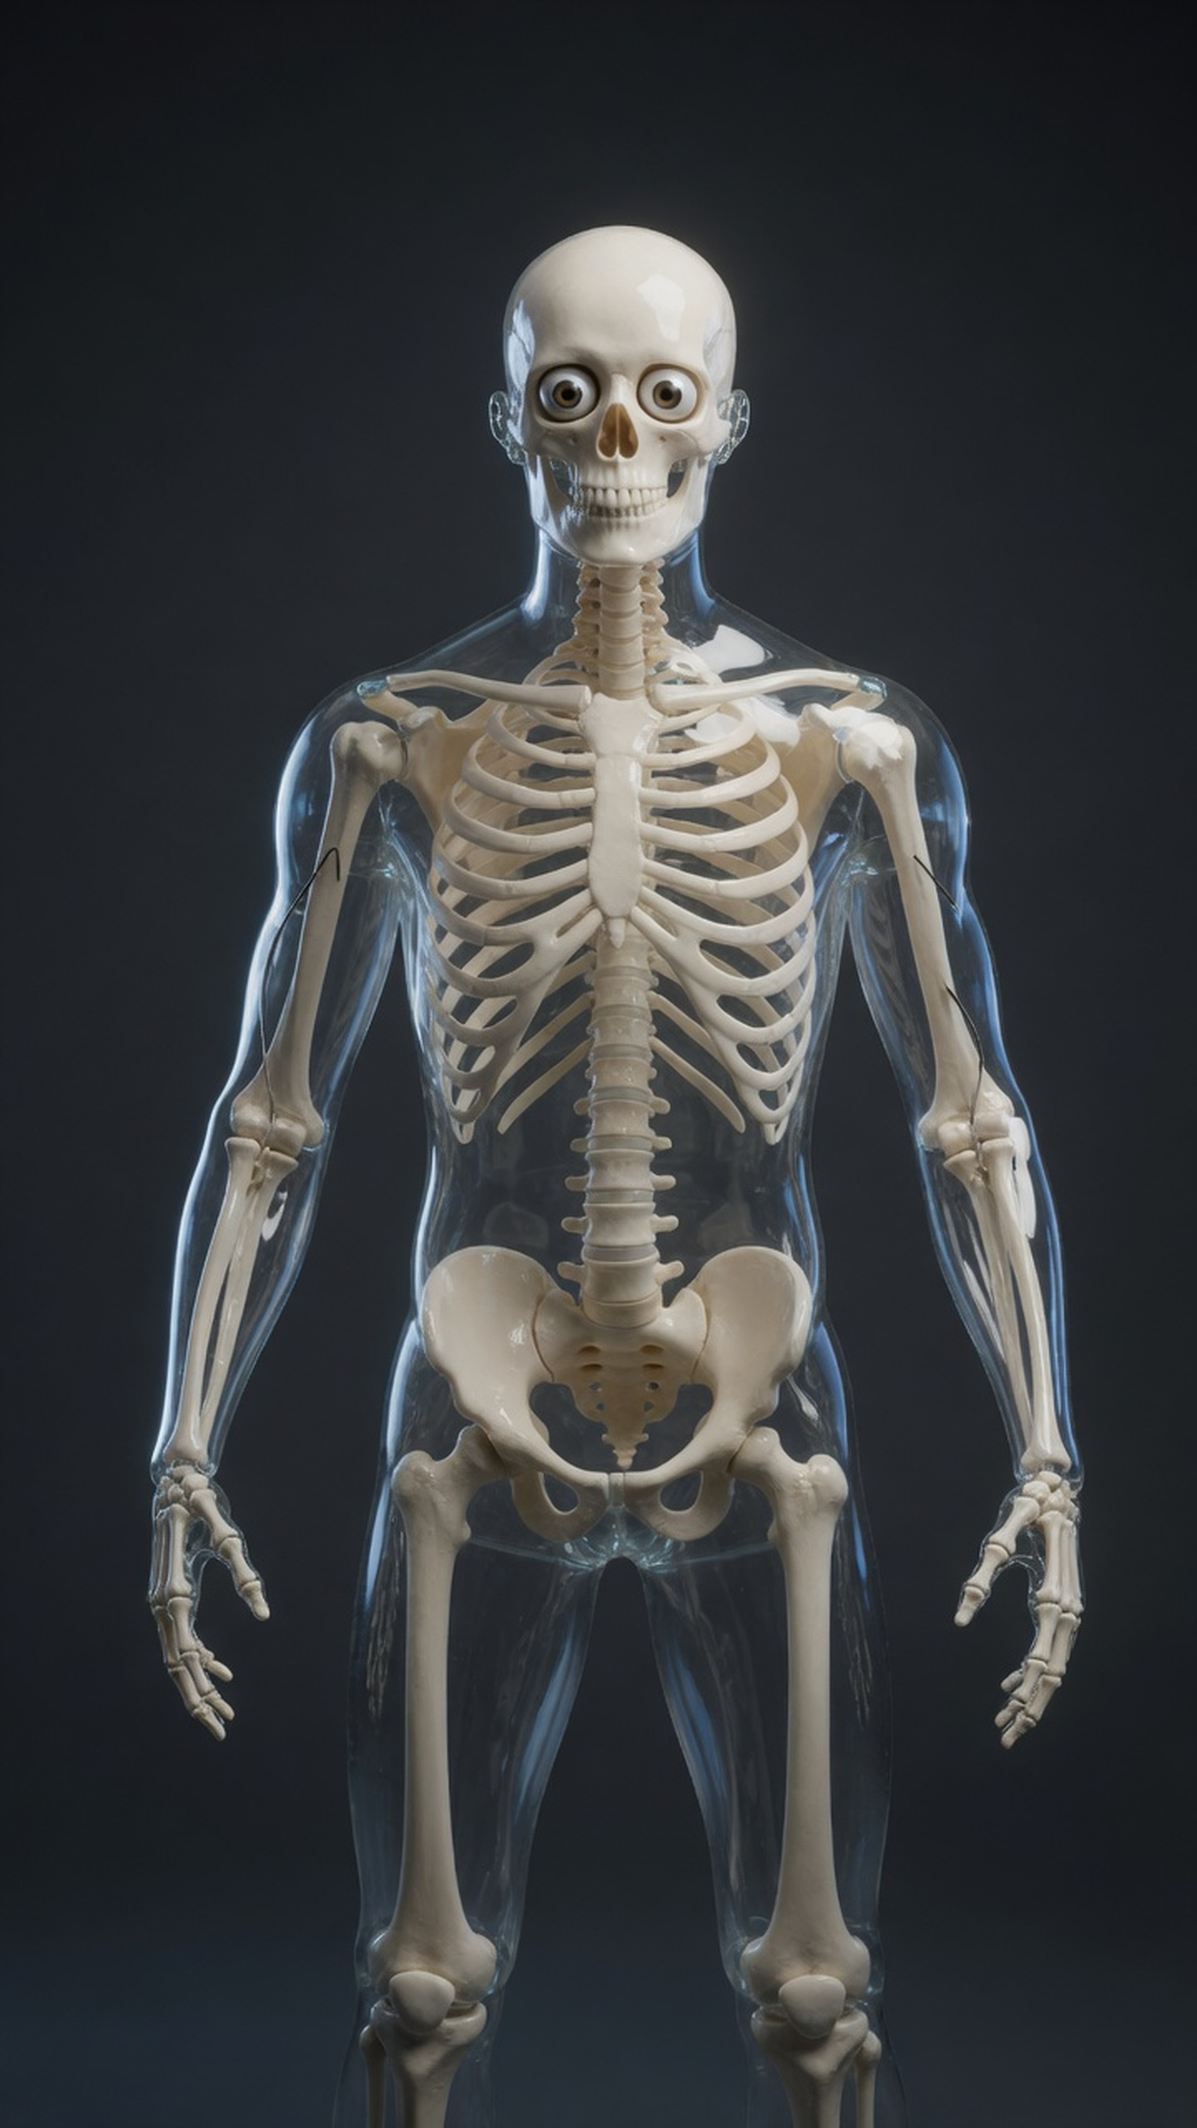
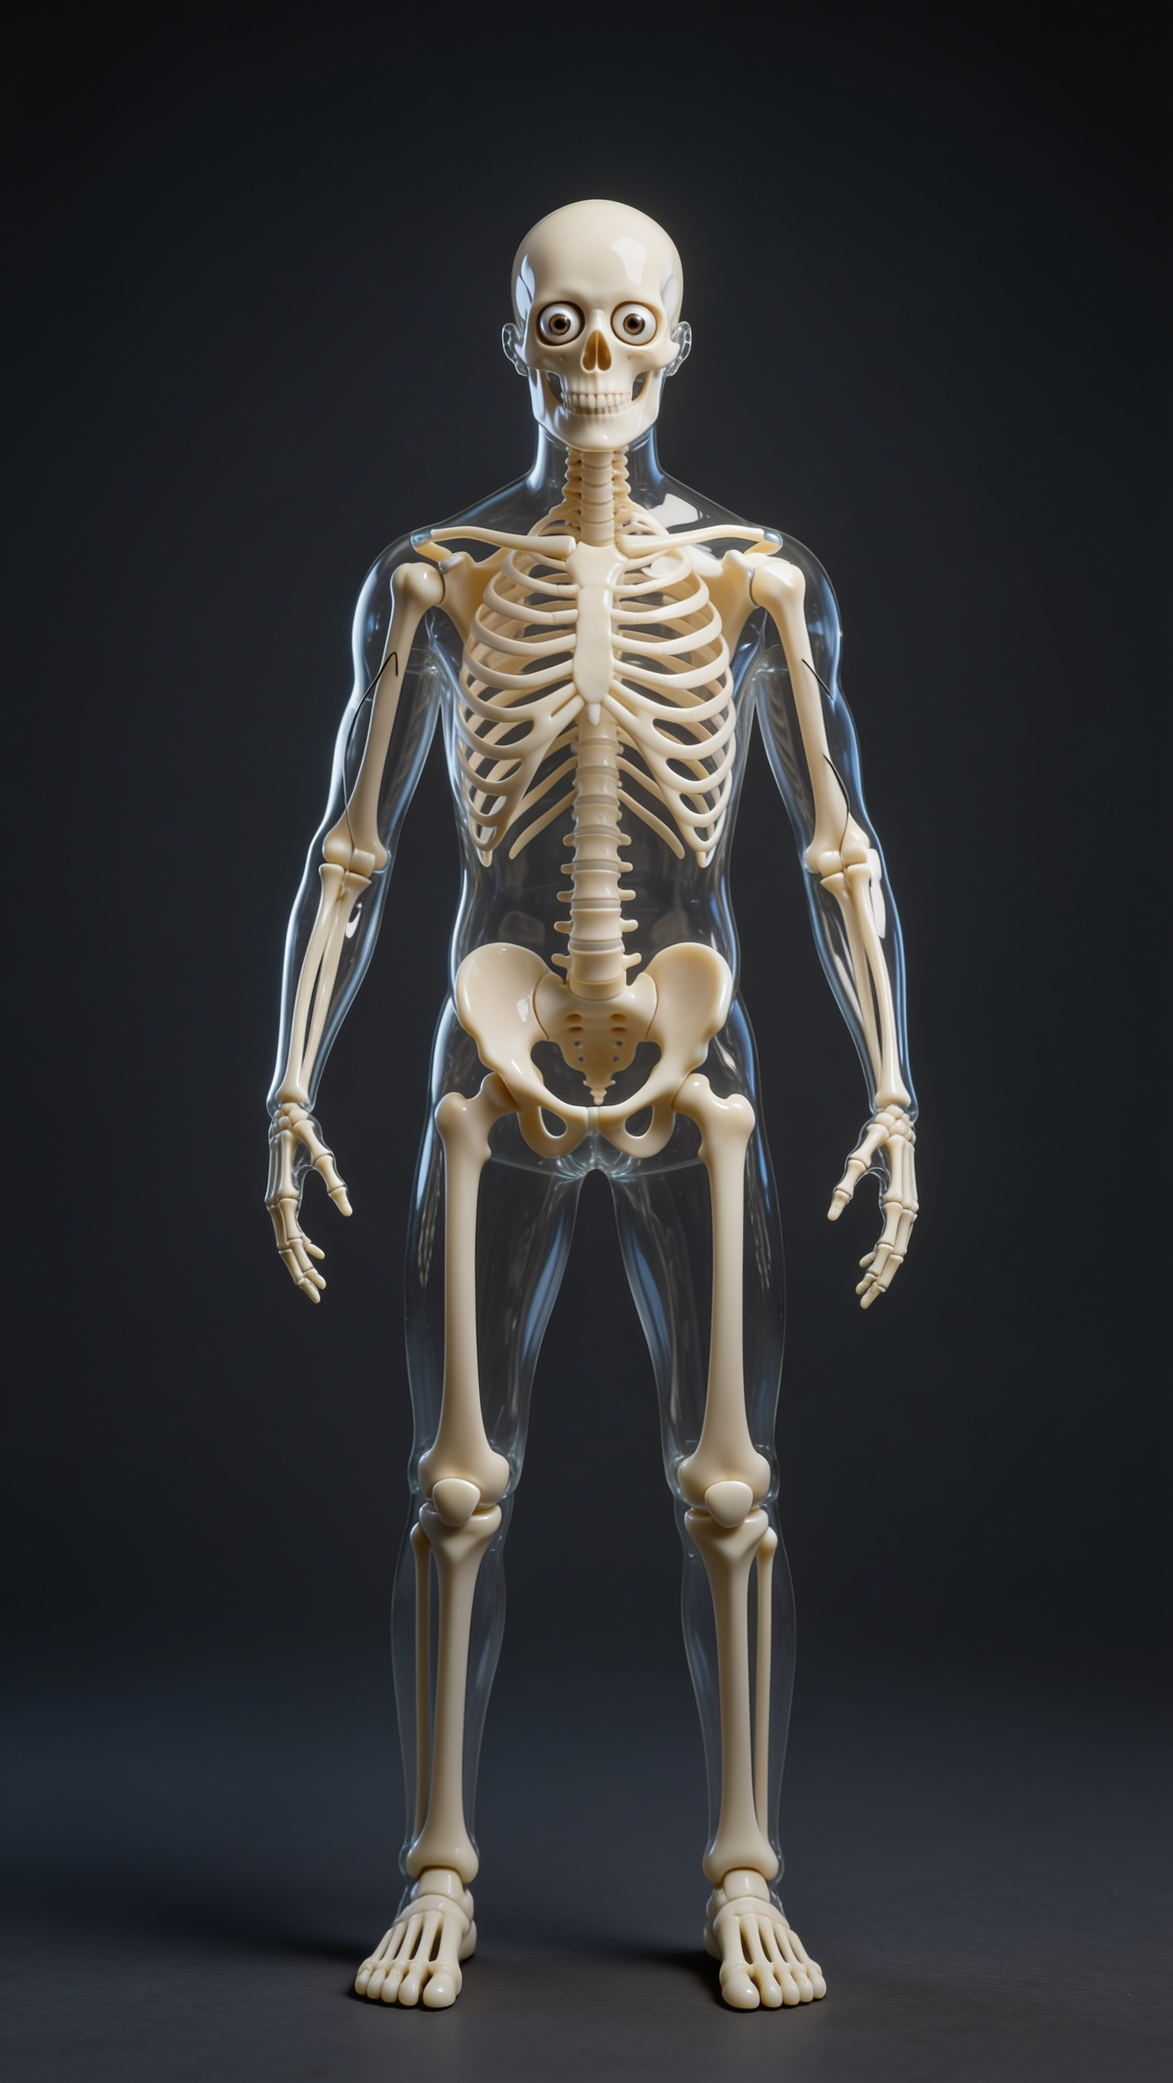
fix(skeleton): the smooth skull and big eyes are the character, not defects
The channel's gold-standard reference art shows MrSkeleWelly with a smooth
polished featureless cranium and large round eyes. Both had been listed as
structural defects on my assumption that they were rendering failures.

That was wrong in both directions. The gate would have blocked renders for
looking correct, and the negative prompts were actively suppressing the
mascot's own face. A replacement master generated to "fix" them would have
shipped a different character across an existing slate.

Removed skull_detail_failure and eye_consistency_failure from the
structural set, the QA vocabulary, the summary backfill, and the negative
prompt. The QA rubric now states plainly that the polished cranium and
large eyes are by design and must never be reported as defects. Genuine
deviation is still caught as identity drift against the master reference,
which is the right mechanism - the reference defines the character, not a
word list.

What the gold standard does establish is a quality bar the renders were
missing: five digits per hand including a thumb with distinct jointed
phalanges, a defined dental arcade, clean unscratched shell refraction,
and no detached bones. Those stay structural, and the roster prompt now
reinforces them positively instead of arguing with the character.

The master reference is lifted, not replaced. The gold standard is an
action shot in a basketball arena, and Seedream edit preserves the
[…]

diff --git a/tests/test_defect_classes.py b/tests/test_defect_classes.py
@@ -33,8 +33,7 @@ def _report(*issues: str, passed: bool = False) -> dict:
 
 @pytest.mark.parametrize(
     "issue",
-    ["skull_detail_failure", "eye_consistency_failure", "hand_topology_failure",
-     "glass_shell_failure", "material_artifact"],
+    ["hand_topology_failure", "glass_shell_failure", "material_artifact"],
 )
 def test_structural_defects_do_not_earn_a_retry(issue: str) -> None:
     verdict = classify_report(_report(issue))
@@ -121,7 +120,7 @@ def test_a_hold_carries_the_frame_and_states_zero_spend() -> None:
 
 def test_a_hold_is_not_reported_as_a_repair() -> None:
     """"We held" must never be readable as "we retried and it worked"."""
-    hold = structural_hold_report(scene_index=1, qa_report=_report("skull_detail_failure"))
+    hold = structural_hold_report(scene_index=1, qa_report=_report("hand_topology_failure"))
     assert hold["status"] != "repaired_still"
     assert hold["defect_class"] == STRUCTURAL
 
@@ -153,7 +152,7 @@ def test_a_structural_verdict_provably_costs_zero_in_retries(
         production_budget, "enforce_incremental_spend", _tripwire_spend
     )
 
-    structural = _report("skull_detail_failure", "eye_consistency_failure")
+    structural = _report("hand_topology_failure", "glass_shell_failure")
     assert defect_classes.repair_is_allowed(structural) is False
 
     hold = defect_classes.structural_hold_report(scene_index=3, qa_report=structural)
@@ -164,19 +163,21 @@ def test_a_structural_verdict_provably_costs_zero_in_retries(
 def test_a_reseed_verdict_is_the_only_thing_that_unlocks_spend() -> None:
     """The complement of the money proof: fixable defects must still repair."""
     assert repair_is_allowed(_report("composition_failure")) is True
-    assert repair_is_allowed(_report("skull_detail_failure")) is False
+    assert repair_is_allowed(_report("hand_topology_failure")) is False
 
 
 def test_the_observed_canary_defects_all_classify_as_structural() -> None:
     """Grounding against the real render.
 
-    Frame extraction found featureless skull, mismatched eyes, broken hand
-    topology and detached bones with scratch lines. If any of these classified
-    as fixable, the pipeline would pay to re-roll them on every future render.
+    Frame extraction found thumbless four-fingered hands and detached bones with
+    scratch lines. If either classified as fixable, the pipeline would pay to
+    re-roll them on every future render.
+
+    The featureless cranium and large eyes found alongside them are NOT here:
+    the channel's reference art shows both are the character, so blocking on
+    them would fail renders for looking correct.
     """
     for issue in (
-        "skull_detail_failure",
-        "eye_consistency_failure",
         "hand_topology_failure",
         "glass_shell_failure",
     ):
@@ -194,10 +195,7 @@ def test_the_qa_prompt_asks_for_the_structural_fields() -> None:
     from studio_agent.visual_qa import _still_semantic_prompt
 
     prompt = _still_semantic_prompt(locked_outfit="", cast_count=1)
-    for field in (
-        "skull_detail_failure", "eye_consistency_failure",
-        "hand_topology_failure", "glass_shell_failure",
-    ):
+    for field in ("hand_topology_failure", "glass_shell_failure"):
         assert field in prompt, f"QA cannot report {field}"
 
 

diff --git a/studio_agent/visual_qa.py b/studio_agent/visual_qa.py
@@ -954,18 +954,16 @@ def _still_semantic_prompt(*, locked_outfit: str, cast_count: int = 1) -> str:
         '"identity_drift":false,"human_or_skin":false,"anatomy_artifact":false,'
         '"wardrobe_drift":false,"layout_artifact":false,"symbolic_clutter":false,'
         '"text_artifact":false,"background_artifact":false,'
-        '"skull_detail_failure":false,"eye_consistency_failure":false,'
         '"hand_topology_failure":false,"glass_shell_failure":false}. '
         # These four are reported separately from anatomy_artifact because the
         # model reproduces them on essentially every draw. Naming them lets the
         # repair path stop instead of paying for a retry that returns the same
         # defect. anatomy_artifact stays reserved for a one-off limb glitch.
-        "Report skull_detail_failure when the cranium is a featureless glossy dome with no "
-        "suture or bone structure; eye_consistency_failure when the eyes are mismatched in "
-        "size, asymmetric, protruding, or not seated in the sockets; hand_topology_failure "
-        "when fingers are missing, added, fused, thumbless, or wrongly jointed; and "
-        "glass_shell_failure when the shell shows stray scratch lines, broken refraction, or "
-        "bones detached from the body inside it. "
+        "The canonical skeleton has a smooth polished cranium and large round eyes by "
+        "design - never report those as defects. Report hand_topology_failure when fingers "
+        "are missing, added, fused, thumbless, or wrongly jointed; and glass_shell_failure "
+        "when the shell shows stray scratch lines, broken refraction, or bones detached "
+        "from the body inside it. "
         "Uncertainty is a fail."
     )
 
@@ -1029,7 +1027,6 @@ def audit_skeleton_still(
             "layout_artifact", "symbolic_clutter", "text_artifact", "background_artifact",
             # Structural classes: reported separately so the repair path can
             # refuse to spend on a defect a fresh seed will reproduce.
-            "skull_detail_failure", "eye_consistency_failure",
             "hand_topology_failure", "glass_shell_failure",
         )
         issues = [field for field in issue_fields if parsed.get(field) is True]
@@ -1061,8 +1058,6 @@ def audit_skeleton_still(
             # a featureless skull or thumbless hand lands as a generic anatomy
             # artifact, and the repair path pays for a retry that cannot fix it.
             for terms, field in (
-                (("featureless skull", "featureless cranium", "smooth dome", "no suture", "glossy dome"), "skull_detail_failure"),
-                (("mismatched eye", "asymmetric eye", "protruding eye", "googly", "eyes differ", "uneven eyes"), "eye_consistency_failure"),
                 (("thumbless", "missing thumb", "missing finger", "extra finger", "fused finger", "six finger", "malformed hand"), "hand_topology_failure"),
                 (("scratch line", "stray line", "detached bone", "floating bone", "broken refraction"), "glass_shell_failure"),
             ):

diff --git a/skeleton_ai/canonical_edit.py b/skeleton_ai/canonical_edit.py
@@ -228,19 +228,22 @@ _NEG_EDIT_CORE = (
     "helmet bubble, glass walls, circular base, floor ring, floating glass edge, "
     "diagram label, callout, readable text, typography, UI element, "
     "extra fingers, extra hand, third hand, fourth hand, floating hand, duplicate hand, "
-    # The four structural defect classes, named explicitly. Frame inspection of a
-    # finished render found all four in effectively every frame that showed them,
-    # and they are baked into the reference before animation ever runs - so every
-    # clip inherits them and no downstream QA can recover the video.
+    # The real structural defect classes, named explicitly. Frame inspection of a
+    # finished render found these recurring, and they are baked into the
+    # reference before animation runs - so every clip inherits them and no
+    # downstream QA can recover the video.
+    #
+    # Note what is deliberately absent: nothing here suppresses a smooth glossy
+    # cranium or large round eyes. Those are the character. An earlier revision
+    # listed them as defects and would have suppressed the mascot's own face.
     "missing fingers, four fingers, six fingers, thumbless hand, missing thumb, "
     "fused fingers, webbed fingers, elongated fingers, mangled hand, boneless fingers, "
-    "asymmetric eyes, mismatched eyes, uneven eye size, protruding eyes, bulging eyes, "
-    "googly eyes, eyes outside sockets, one eye larger, "
-    "featureless cranium, smooth glossy skull, blank skull dome, mannequin head, "
-    "seamless plastic skull, detail-free cranium, "
+    "eyes outside sockets, one eye much larger than the other, "
     "stray lines, scratch marks, scratch lines on glass, stray pen strokes, "
     "random line artifacts, detached bones, floating bones, disconnected humerus, "
     "broken refraction, cracked shell seams, "
+    # Quality markers the reference art shows and weak draws drop.
+    "missing teeth, blank jaw, undefined dental arcade, featureless mandible, "
     # Default gym-master leakage: never invent sports gear for non-sports topics.
     "basketball, soccer ball, football, baseball, tennis ball, volleyball, sports ball, "
     "dumbbell, barbell, kettlebell, weight plate, gym equipment, gym rack, "

diff --git a/tests/test_still_gate.py b/tests/test_still_gate.py
@@ -6,11 +6,14 @@ First, `/api/skeleton-ai/generate` - the endpoint the Create panel calls - ran
 `pipeline.run`, which had **zero** visual_qa call sites against 57 in the staged
 path. Every short made through the form rendered completely ungated.
 
-Second, the defects frame inspection found (featureless skull, mismatched eyes,
-thumbless hands, stray scratch lines) were present in the reference stills
+Second, the defects frame inspection found (thumbless four-fingered hands,
+detached bones, stray scratch lines) were present in the reference stills
 *before* animation ran. Animation is 90.7% of a short's cost and the reference
 is 0.3%, so the reference is the cheapest possible place to stop a doomed render
 - $0.04 against the $5.88 of clips it would seed.
+
+The smooth cranium and large round eyes seen alongside them are not defects at
+all: the channel's reference art defines both as the character.
 """
 from __future__ import annotations
 
@@ -32,8 +35,7 @@ def _qa(*issues: str, passed: bool = False) -> dict:
 
 @pytest.mark.parametrize(
     "issue",
-    ["skull_detail_failure", "eye_consistency_failure", "hand_topology_failure",
-     "glass_shell_failure", "material_artifact"],
+    ["hand_topology_failure", "glass_shell_failure", "material_artifact"],
 )
 def test_a_structurally_broken_reference_does_not_animate(issue: str) -> None:
     verdict = evaluate_reference_still(_qa(issue))
@@ -45,10 +47,10 @@ def test_a_structurally_broken_reference_does_not_animate(issue: str) -> None:
 def test_the_observed_canary_reference_defects_all_block() -> None:
     """The exact defects found by extracting frames from a finished render."""
     verdict = evaluate_reference_still(
-        _qa("skull_detail_failure", "eye_consistency_failure", "hand_topology_failure")
+        _qa("hand_topology_failure", "glass_shell_failure")
     )
     assert verdict["animation_allowed"] is False
-    assert len(verdict["blocking_issues"]) == 3
+    assert len(verdict["blocking_issues"]) == 2
 
 
 def test_missing_qa_is_not_permission_to_animate() -> None:

diff --git a/skeleton_ai/pipeline.py b/skeleton_ai/pipeline.py
@@ -973,18 +973,17 @@ def run(
                     # tripped FAL's content checker and failed the roster edit
                     # with content_policy_violation.
                     # Anatomy detail is stated positively here because the roster
-                    # is the reference every scene inherits. Frame inspection
-                    # found a featureless skull and thumbless hands baked into
-                    # the reference *before* animation ran, so every clip
-                    # inherited them and no downstream QA could recover the
-                    # video. Fixing it here fixes every future render at zero
-                    # marginal cost.
+                    # is the reference every scene inherits, and weak draws drop
+                    # exactly these features. It describes the character as the
+                    # channel's reference art defines it - polished cranium and
+                    # large round eyes are correct and deliberately reinforced,
+                    # not corrected.
                     visual_description=(
                         "Plain neutral studio backdrop, full skeleton visible head to feet, "
-                        "front-facing. Cranium shows real bone structure with visible sutures "
-                        "and temporal ridges, not a smooth dome. Both eyes equal size, seated "
-                        "level in the sockets. Each hand has five digits including an opposed "
-                        "thumb, correctly jointed."
+                        "front-facing. Smooth polished ivory cranium, large round eyes seated "
+                        "in the sockets, fully defined dental arcade. Each hand has five "
+                        "digits including a thumb, individually jointed. Clean unscratched "
+                        "glass shell."
                     ),
                     outfit=beat.outfit,
                     cast_count=production_cast,

diff --git a/studio_agent/defect_classes.py b/studio_agent/defect_classes.py
@@ -3,9 +3,9 @@
 Regeneration re-rolls the seed. That helps when the defect came from *this*
 draw - an unlucky limb, a bad framing, a continuity break. It does nothing when
 the model reproduces the defect on essentially every draw, which is the case for
-skull detail, eye consistency, glass-shell refraction, and hand topology on the
-skeleton subject. Frame inspection of a finished render found those four in
-effectively every frame that showed them.
+glass-shell refraction and hand topology on the skeleton subject. Frame
+inspection of a finished render found thumbless four-fingered hands, detached
+bones and stray scratch lines recurring across frames.
 
 Retrying a structural defect is the most expensive possible no-op: it costs a
 full clip or still, produces the same defect, and can loop. One short reached
@@ -25,9 +25,16 @@ STRUCTURAL = "structural"
 
 #: Defects the model reproduces on essentially every draw. Retrying is a no-op
 #: that costs money, so these fail to a human instead.
+#:
+#: Deliberately NOT here: cranial detail and eye size. Both were briefly listed
+#: as defects on the assumption that a featureless glossy dome and large round
+#: eyes were rendering failures. The channel's reference art shows they are the
+#: character - the skull is meant to be smooth and polished, the eyes large and
+#: round. Blocking on them would have failed renders for looking correct, and
+#: "fixing" them would have produced a different mascot. Genuine skull or eye
+#: deviation is caught as identity drift against the master reference, which is
+#: the right mechanism: the reference defines the character, not a word list.
 STRUCTURAL_ISSUES: frozenset[str] = frozenset({
-    "skull_detail_failure",
-    "eye_consistency_failure",
     "hand_topology_failure",
     "glass_shell_failure",
     "material_artifact",

diff --git a/tests/test_skeleton_prompt_content_safety.py b/tests/test_skeleton_prompt_content_safety.py
@@ -165,8 +165,8 @@ def test_unrelated_failures_do_not_trigger_the_prompt_retry(message: str) -> Non
 
 @pytest.mark.parametrize(
     "term",
-    ["missing fingers", "thumbless hand", "asymmetric eyes", "protruding eyes",
-     "featureless cranium", "stray lines", "detached bones"],
+    ["missing fingers", "thumbless hand", "fused fingers",
+     "stray lines", "detached bones", "broken refraction"],
 )
 def test_the_negative_prompt_names_the_structural_defects(term: str) -> None:
     """Frame inspection found all four structural classes in the reference.

diff --git a/ViralShorts-App/public/SKELETON_CHARACTER_SPEC.md b/ViralShorts-App/public/SKELETON_CHARACTER_SPEC.md
@@ -1,0 +1,43 @@
+# MrSkeleWelly character spec
+
+`skeleton-gold-standard-reference.png` is the channel owner's gold standard:
+"this skeleton image should be gold standard for how the skeleton should always
+look." It is the authority on what the character *is*. This file records what
+that image establishes, because two of its traits were previously mistaken for
+rendering defects.
+
+## Correct by design — never "fix" these
+
+| Trait | Note |
+|---|---|
+| **Smooth polished ivory cranium** | No sutures, no temporal ridges, no bone texture on the dome. The featureless glossy skull is the character. |
+| **Large round eyes with visible irises** | Seated in the sockets, prominent, slightly cartoon. Not a proportion error. |
+| **Clear glossy transparent shell** | High refraction over ivory bone. |
+
+These were briefly listed as structural defects (`skull_detail_failure`,
+`eye_consistency_failure`) on the assumption that a featureless dome and large
+eyes were failures. They were removed once the gold standard showed otherwise.
+Blocking on them failed renders for looking correct, and "fixing" them produced
+a different mascot. Genuine deviation is caught as identity drift against the
+master reference instead - the reference defines the character, not a word list.
+
+## Genuine defects — the quality bar the gold standard sets
+
+| Defect | What correct looks like |
+|---|---|
+| Hand topology | Five digits per hand **including a thumb**, individually jointed, distinct phalanges |
+| Shell integrity | Clean refraction, no stray scratch lines or cracks |
+| Bone continuity | Every bone connected; nothing floating or detached |
+| Dental arcade | Individual teeth defined, not a blank jaw |
+
+## Why the gold standard is not the master reference
+
+The gold standard is an action shot holding a basketball in an arena. Seedream
+edit preserves the reference *scene*, not only the character: deriving a neutral
+anchor from it kept the basketball and the arena in every attempt. That is the
+same gym-prop leakage the negative prompts already fight.
+
+So the identity anchor stays a neutral A-pose on a plain dark backdrop
+(`canonical-skeleton-master-hires.png`), lifted to the gold standard's quality
+bar rather than replaced by it. `canonical-skeleton-master-hires.prev.png` is
+the pre-lift master, kept for one-file rollback.
